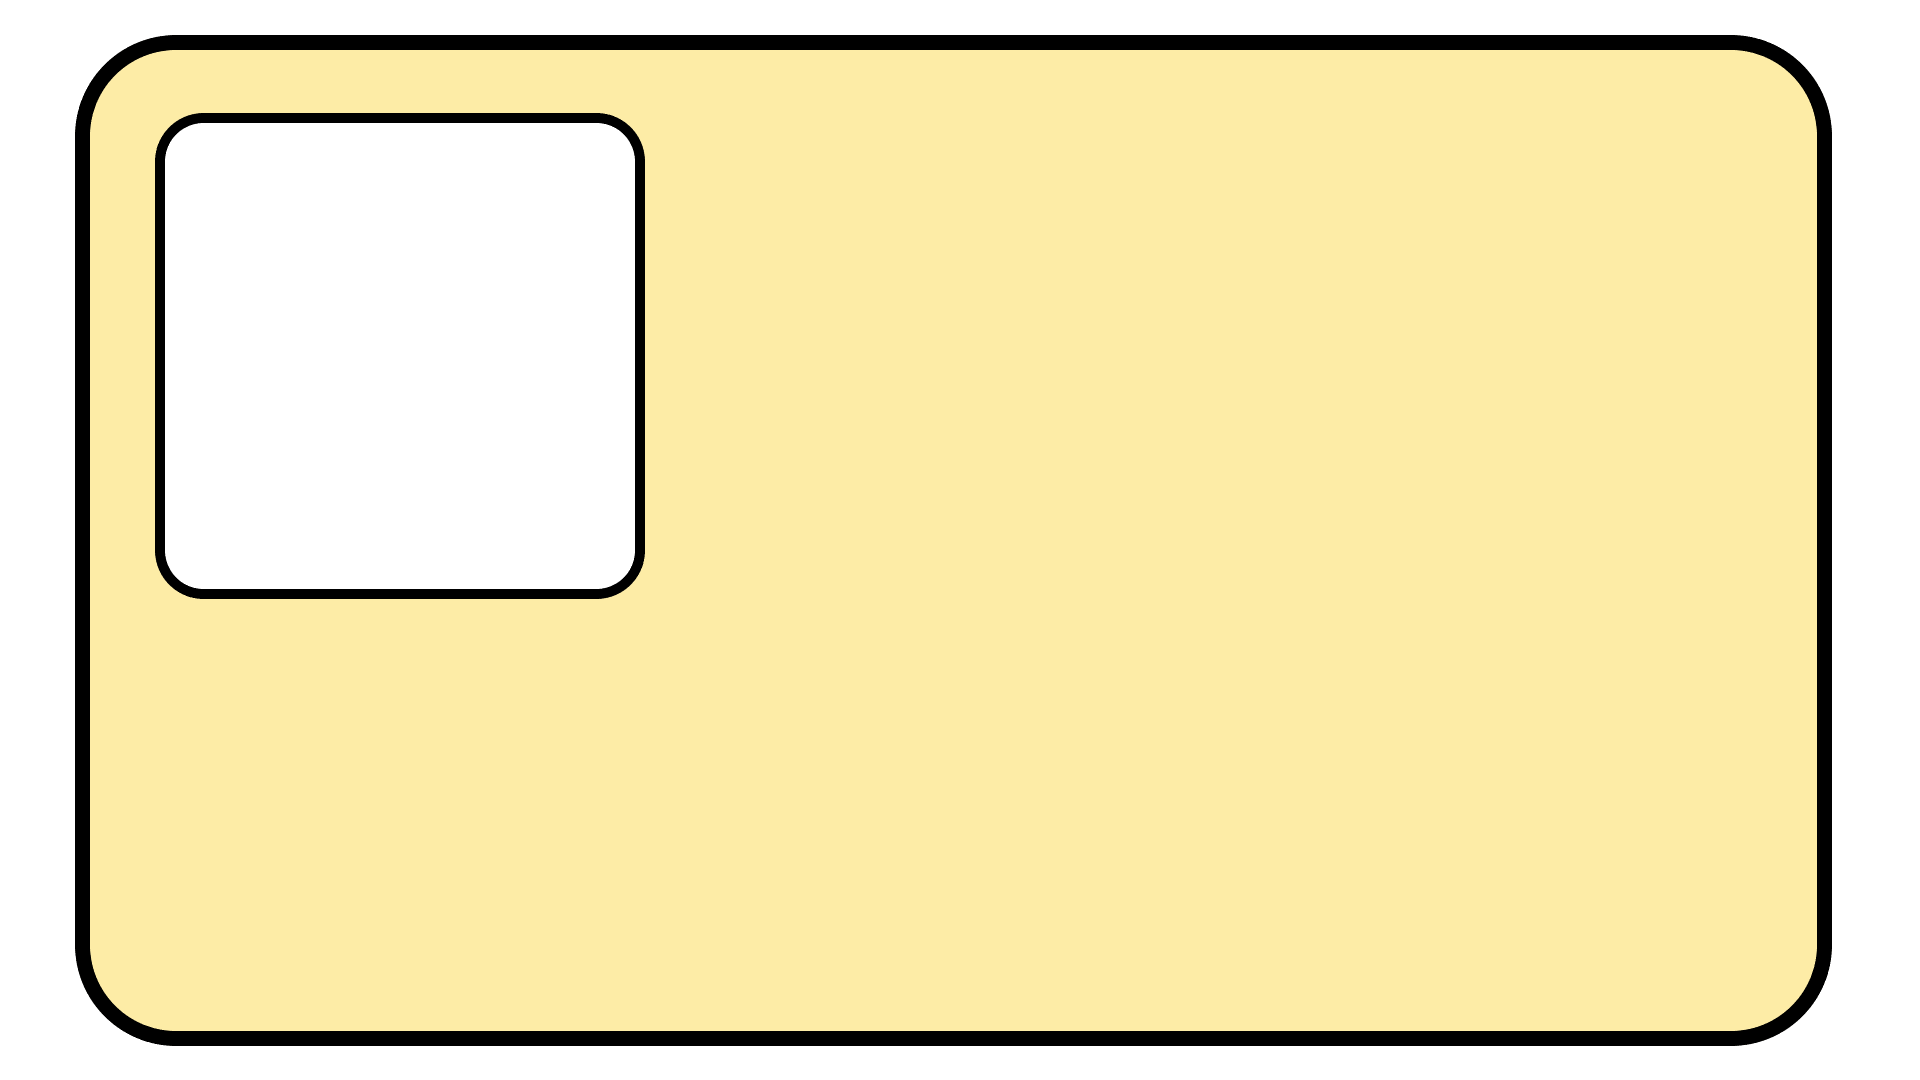
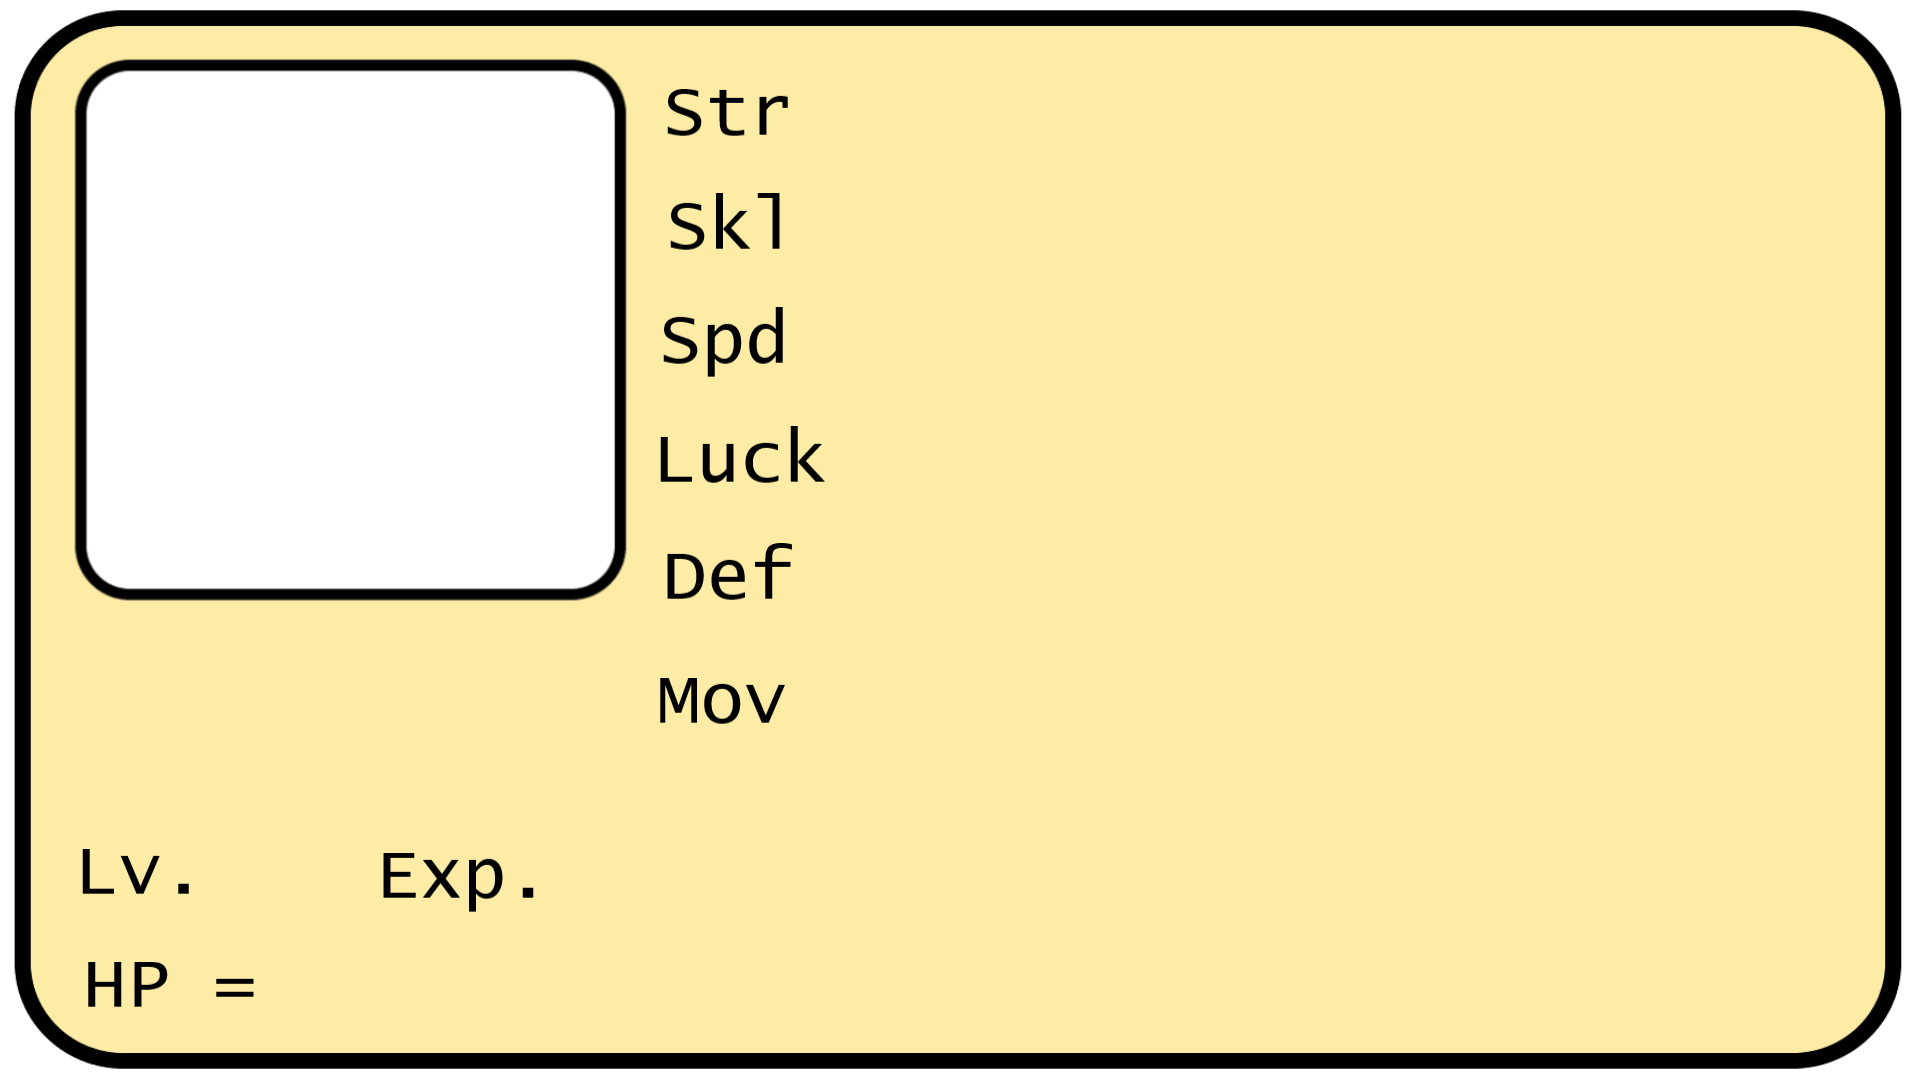
added to the unit info screen so stats are visible

Changed region(s): [[0.0, 0.0, 1.0, 1.0], [0.1875, 0.7944, 0.2812, 0.8556], [0.3438, 0.6111, 0.4062, 0.6722]]

diff --git a/src/main.py b/src/main.py
@@ -10,40 +10,40 @@ running = True
 
 #------ load assets --------
 ## Tiles
-grassTilePic = pygame.image.load("C:/Users/Charlie/Desktop/tryingThisAgain/assets/grassTile.png")
-selectablePic = pygame.image.load("C:/Users/Charlie/Desktop/tryingThisAgain/assets/selectableHighlight.png")
-attackablePic = pygame.image.load("C:/Users/Charlie/Desktop/tryingThisAgain/assets/attackableHighlight.png")
-occupiedPic = pygame.image.load("C:/Users/Charlie/Desktop/tryingThisAgain/assets/occupiedHighlight.png")
-cursorPic = pygame.image.load("C:/Users/Charlie/Desktop/tryingThisAgain/assets/cursor.png")
+grassTilePic = pygame.image.load("C:/Users/Charlie/Desktop/CodenameFE/assets/grassTile.png")
+selectablePic = pygame.image.load("C:/Users/Charlie/Desktop/CodenameFE/assets/selectableHighlight.png")
+attackablePic = pygame.image.load("C:/Users/Charlie/Desktop/CodenameFE/assets/attackableHighlight.png")
+occupiedPic = pygame.image.load("C:/Users/Charlie/Desktop/CodenameFE/assets/occupiedHighlight.png")
+cursorPic = pygame.image.load("C:/Users/Charlie/Desktop/CodenameFE/assets/cursor.png")
 
 ## Characters
-protagPicA = pygame.image.load("C:/Users/Charlie/Desktop/tryingThisAgain/assets/protag_A.png")
-protagPicB = pygame.image.load("C:/Users/Charlie/Desktop/tryingThisAgain/assets/protag_B.png")
+protagPicA = pygame.image.load("C:/Users/Charlie/Desktop/CodenameFE/assets/protag_A.png")
+protagPicB = pygame.image.load("C:/Users/Charlie/Desktop/CodenameFE/assets/protag_B.png")
 
-combatUnit1 = pygame.image.load("C:/Users/Charlie/Desktop/tryingThisAgain/assets/Combat-1.png")
-combatUnit2 = pygame.image.load("C:/Users/Charlie/Desktop/tryingThisAgain/assets/Combat-2.png")
-combatUnit3 = pygame.image.load("C:/Users/Charlie/Desktop/tryingThisAgain/assets/Combat-3.png")
-combatUnit4 = pygame.image.load("C:/Users/Charlie/Desktop/tryingThisAgain/assets/Combat-4.png")
-combatUnit5 = pygame.image.load("C:/Users/Charlie/Desktop/tryingThisAgain/assets/Combat-5.png")
-combatUnit6 = pygame.image.load("C:/Users/Charlie/Desktop/tryingThisAgain/assets/Combat-6.png")
+combatUnit1 = pygame.image.load("C:/Users/Charlie/Desktop/CodenameFE/assets/Combat-1.png")
+combatUnit2 = pygame.image.load("C:/Users/Charlie/Desktop/CodenameFE/assets/Combat-2.png")
+combatUnit3 = pygame.image.load("C:/Users/Charlie/Desktop/CodenameFE/assets/Combat-3.png")
+combatUnit4 = pygame.image.load("C:/Users/Charlie/Desktop/CodenameFE/assets/Combat-4.png")
+combatUnit5 = pygame.image.load("C:/Users/Charlie/Desktop/CodenameFE/assets/Combat-5.png")
+combatUnit6 = pygame.image.load("C:/Users/Charlie/Desktop/CodenameFE/assets/Combat-6.png")
 
 ## Menu
-waitButton = pygame.image.load("C:/Users/Charlie/Desktop/tryingThisAgain/assets/wait-button.png")
-attackButton = pygame.image.load("C:/Users/Charlie/Desktop/tryingThisAgain/assets/attack-button.png")
-menuCursor = pygame.image.load("C:/Users/Charlie/Desktop/tryingThisAgain/assets/menu-cursor.png")
-unitInfoPic = pygame.image.load("C:/Users/Charlie/Desktop/tryingThisAgain/assets/unit-info.png")
+waitButton = pygame.image.load("C:/Users/Charlie/Desktop/CodenameFE/assets/wait-button.png")
+attackButton = pygame.image.load("C:/Users/Charlie/Desktop/CodenameFE/assets/attack-button.png")
+menuCursor = pygame.image.load("C:/Users/Charlie/Desktop/CodenameFE/assets/menu-cursor.png")
+unitInfoPic = pygame.image.load("C:/Users/Charlie/Desktop/CodenameFE/assets/unit-info.png")
 
 ### Combat and UI
-battleForecastPic = pygame.image.load("C:/Users/Charlie/Desktop/tryingThisAgain/assets/battle-forecast.png")
-combatUI = pygame.image.load("C:/Users/Charlie/Desktop/tryingThisAgain/assets/Combat-UI.png")
-combatUIRed = pygame.image.load("C:/Users/Charlie/Desktop/tryingThisAgain/assets/Combat-UI-red.png")
-healthbarfullPiece = pygame.image.load("C:/Users/Charlie/Desktop/tryingThisAgain/assets/healthbar-piece.png")
-healthbarEmptyPiece = pygame.image.load("C:/Users/Charlie/Desktop/tryingThisAgain/assets/healthbar-piece-empty.png")
-mapUnitUI = pygame.image.load("C:/Users/Charlie/Desktop/tryingThisAgain/assets/map-unit-UI.png")
+battleForecastPic = pygame.image.load("C:/Users/Charlie/Desktop/CodenameFE/assets/battle-forecast.png")
+combatUI = pygame.image.load("C:/Users/Charlie/Desktop/CodenameFE/assets/Combat-UI.png")
+combatUIRed = pygame.image.load("C:/Users/Charlie/Desktop/CodenameFE/assets/Combat-UI-red.png")
+healthbarfullPiece = pygame.image.load("C:/Users/Charlie/Desktop/CodenameFE/assets/healthbar-piece.png")
+healthbarEmptyPiece = pygame.image.load("C:/Users/Charlie/Desktop/CodenameFE/assets/healthbar-piece-empty.png")
+mapUnitUI = pygame.image.load("C:/Users/Charlie/Desktop/CodenameFE/assets/map-unit-UI.png")
 
 ## backgrounds
-attacingBackground = pygame.image.load("C:/Users/Charlie/Desktop/tryingThisAgain/assets/attacking-background.png")
-map1background = pygame.image.load("C:/Users/Charlie/Desktop/tryingThisAgain/assets/map1-background.png")
+attacingBackground = pygame.image.load("C:/Users/Charlie/Desktop/CodenameFE/assets/attacking-background.png")
+map1background = pygame.image.load("C:/Users/Charlie/Desktop/CodenameFE/assets/level1Background.png")
 #---------------------------
 
 # globals
@@ -387,12 +387,69 @@ class UnitInfo():
 
     def __init__(self):
         self.pic = unitInfoPic
-
+        self.currUnit = None
     def reset(self, unit):
-        pass
+        self.currUnit = unit
 
     def draw(self, screen):
         screen.blit(self.pic, (0, 0))
+
+        nameT = font.render(self.currUnit.name, True, (0,0,0))
+        nameR = nameT.get_rect()
+        nameR.center = (250, 650)
+
+        lvlT = font.render(str(self.currUnit.level), True, (0,0,0))
+        lvlR = lvlT.get_rect()
+        lvlR.center = (270, 870)
+
+        expT = font.render(str(self.currUnit.exp), True, (0,0,0))
+        expR = expT.get_rect()
+        expR.center = (630, 870)
+
+        hpT = font.render(str(self.currUnit.hp), True, (0,0,0))
+        hpR = hpT.get_rect()
+        hpR.center = (330, 990)
+
+        mhpT = font.render(str(self.currUnit.maxHp), True, (0,0,0))
+        mhpR = mhpT.get_rect()
+        mhpR.center = (450, 990)
+
+        strT = font.render(str(self.currUnit.attack), True, (0,0,0))
+        strR = strT.get_rect()
+        strR.center = (870, 110)
+
+        sklT = font.render(str(self.currUnit.skill), True, (0,0,0))
+        sklR = strT.get_rect()
+        sklR.center = (870, 230)
+
+        spdT = font.render(str(self.currUnit.speed), True, (0,0,0))
+        spdR = spdT.get_rect()
+        spdR.center = (870, 340)
+
+        lckT = font.render(str(self.currUnit.luck), True, (0,0,0))
+        lckR = lckT.get_rect()
+        lckR.center = (870, 460)
+
+        defT = font.render(str(self.currUnit.defense), True, (0,0,0))
+        defR = defT.get_rect()
+        defR.center = (870, 580)
+
+        movT = font.render(str(self.currUnit.mov), True, (0,0,0))
+        movR = movT.get_rect()
+        movR.center = (870, 700)
+
+        screen.blit(nameT, nameR)
+        screen.blit(lvlT, lvlR)
+        screen.blit(expT, expR)
+
+        screen.blit(hpT, hpR)
+        screen.blit(mhpT, mhpR)
+        screen.blit(strT, strR)
+        screen.blit(sklT, sklR)
+        screen.blit(spdT, spdR)
+        screen.blit(lckT, lckR)
+        screen.blit(defT, defR)
+        screen.blit(movT, movR)
 
 class Animation():
     
@@ -419,6 +476,8 @@ class Unit():
 
     def __init__(self, X, Y):
         self.name = "generic"
+        self.level = 1
+        self.exp = 0
         self.maxHp = 15
         self.hp = self.maxHp
         self.attack = 10
@@ -469,6 +528,7 @@ myMapUnitUI = MapUnitUI()
 ## width first, height second (width goes from left to right, height goes from top to bottom)
 protag = Unit(3, 9)
 Jagen = Unit(3, 5)
+Jagen.name = 'Jagen'
 Jagen.attack = 9
 Jagen.defense = 110
 Jagen.speed = 9
@@ -592,7 +652,7 @@ def checkMapUI():
         myMapUnitUI.X = gameWidth - 460
         myBattleForcast.X = gameWidth - 500
 
-        
+
 # main game loop
 while running:
     keys = pygame.key.get_pressed()
